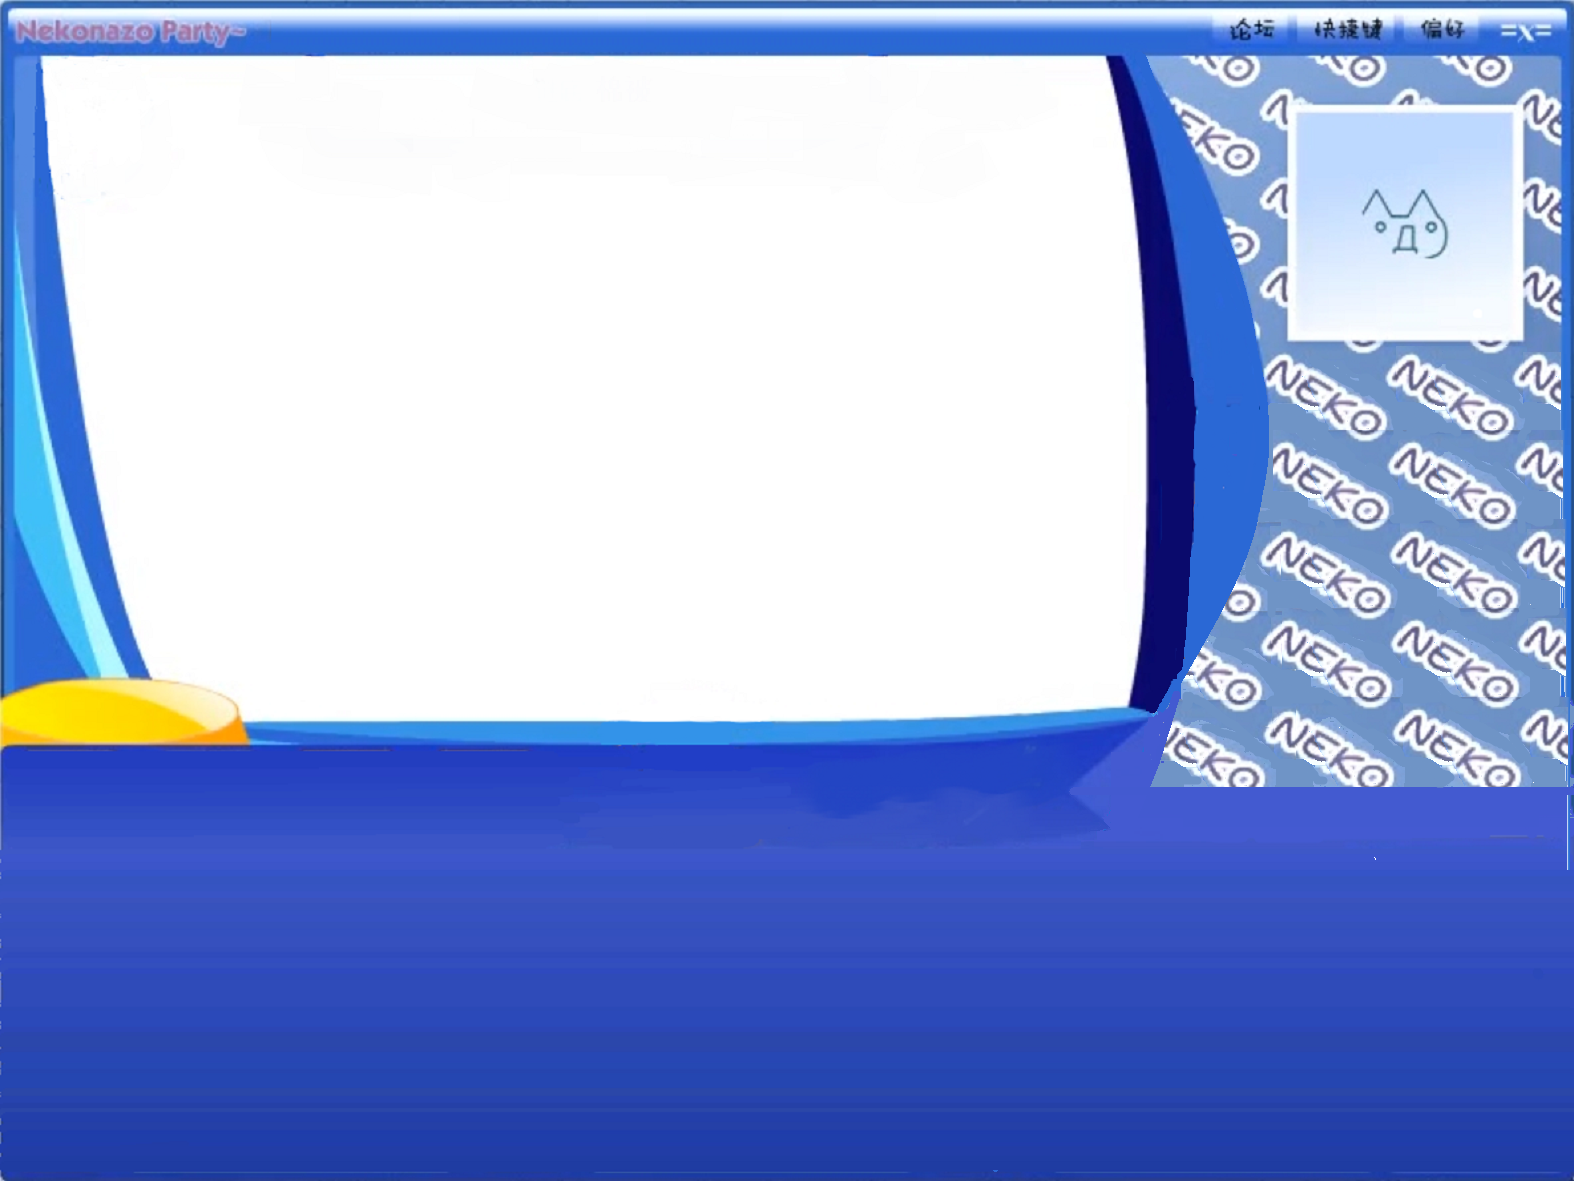
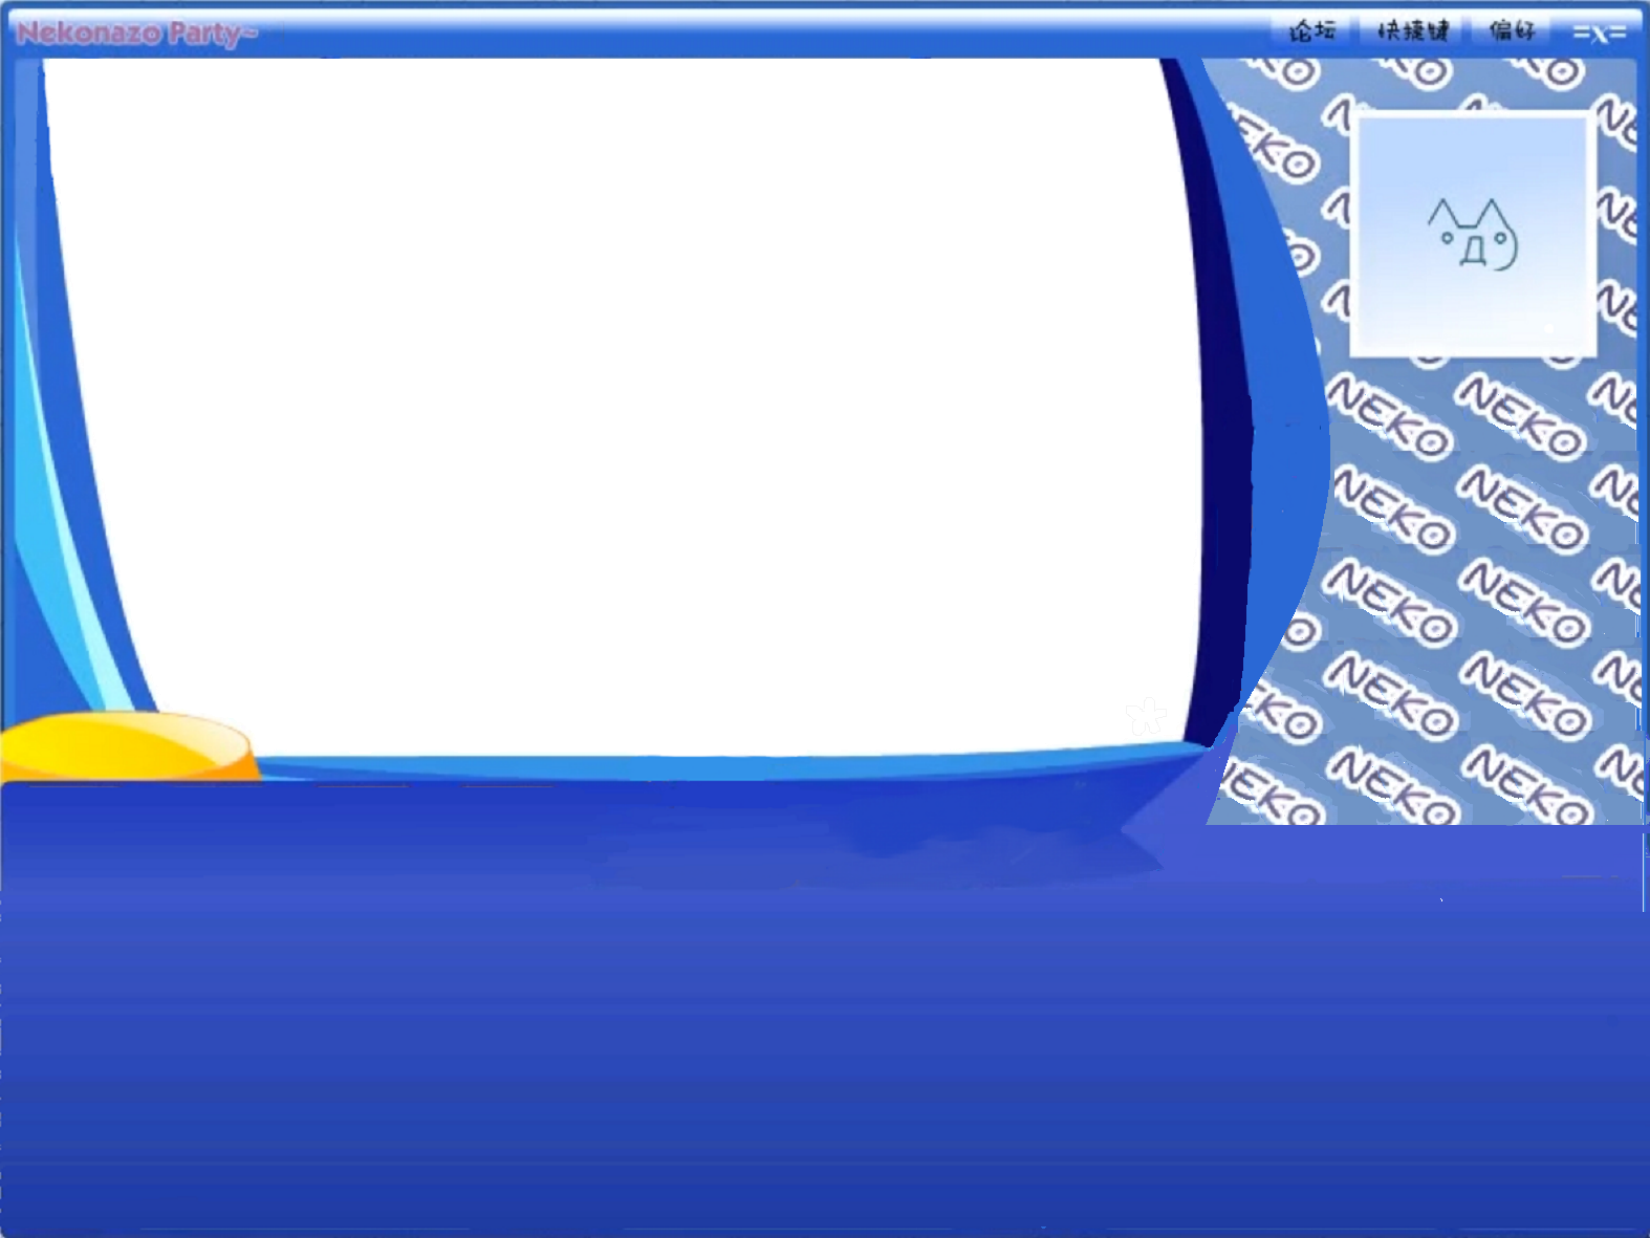
压感，坑爹的Windowsink，and键盘坏了

diff --git a/partyx/flash.js b/partyx/flash.js
@@ -223,7 +223,7 @@ function flash(name){
 					ctx.stroke();
 				}
 				
-				pen.setCtxPressure(ctx,{});
+				pen.setCtxPressure(ctx,drawJsons[pointer]);
 				
 				ctx.lineTo(drawJsons[pointer].endX,drawJsons[pointer].endY);
 				ctx.stroke();
@@ -361,7 +361,7 @@ function flash(name){
 		document.getElementById("draw-tool").style.display="none";
 		document.getElementById("drawTimeLimit").style.display="none";
 		
-		pen.setCtxPressure(ctx,{});
+		//pen.setCtxPressure(ctx,{});
 		[canvas.style.width,canvas.style.height]=
 		[realboard.offsetWidth*2,realboard.offsetHeight*2].map(x=>Math.floor(x));
 		state="room";
@@ -503,7 +503,7 @@ function flash(name){
 			realboard.onpointerdown=drawListener;
 			document.getElementById("drawTimeLimit").style.display="none";				
 			document.getElementById("draw-tool").style.display="block";				
-			pen.setCtxPressure(ctx,{});
+			//pen.setCtxPressure(ctx,{});
 			[canvas.style.width,canvas.style.height]=
 			[realboard.offsetWidth*2,realboard.offsetHeight*2].map(x=>Math.floor(x));
 			state="room";

diff --git a/partyx/partyx.css b/partyx/partyx.css
@@ -626,6 +626,16 @@
 			color: white;
 			text-shadow: black 1px 1px 0.1em, black -1px -1px 0.1em;
 		}
+		#flash{
+			background:none;
+		}
+		#room-bg{
+			position: absolute; 
+			height:100%;
+			width: 100%;
+			background-image:url("images/bg5.png");
+			background-size:100%;
+		}
 		#snow { 
 			position: absolute; 
 			height:100%;
@@ -660,19 +670,19 @@
 		
 		
 		#board {
-			z-index:var(room-zindex1);
+			z-index:1;
 			/*z-index:var(room-zindex4);*/
 		}
-		#bg-img{
-			z-index:var(room-z-index2);
+		#room-bg{
+			z-index:2;
 		}
 		#realboard {
-			z-index:var(room-zindex3);/*4*/
+			z-index:3;/*4*/
 		}
 
 		#avater ,
 		#footer {
-			z-index:var(room-zindex3);
+			z-index:3;
 		}
 		
 		#draw-tool ,		
@@ -683,7 +693,7 @@
 		#drawing-name ,
 		#inputbox ,
 		#message {
-			z-index:var(room-zindex5);
+			z-index:5;
 		}
 		/*
 		1 加bg-img层，中间扣出一块透明 pointer-events none  会导致一些看不见的被画

diff --git a/partyx/Nekonazo partyx.html b/partyx/Nekonazo partyx.html
@@ -97,6 +97,7 @@
 			</div>
 		</div>
 		<div id="flash">
+			<div id="room-bg"></div>
 			<canvas id="board" width="2000" height="1208">
 			</canvas>
 			<div class="header" >
